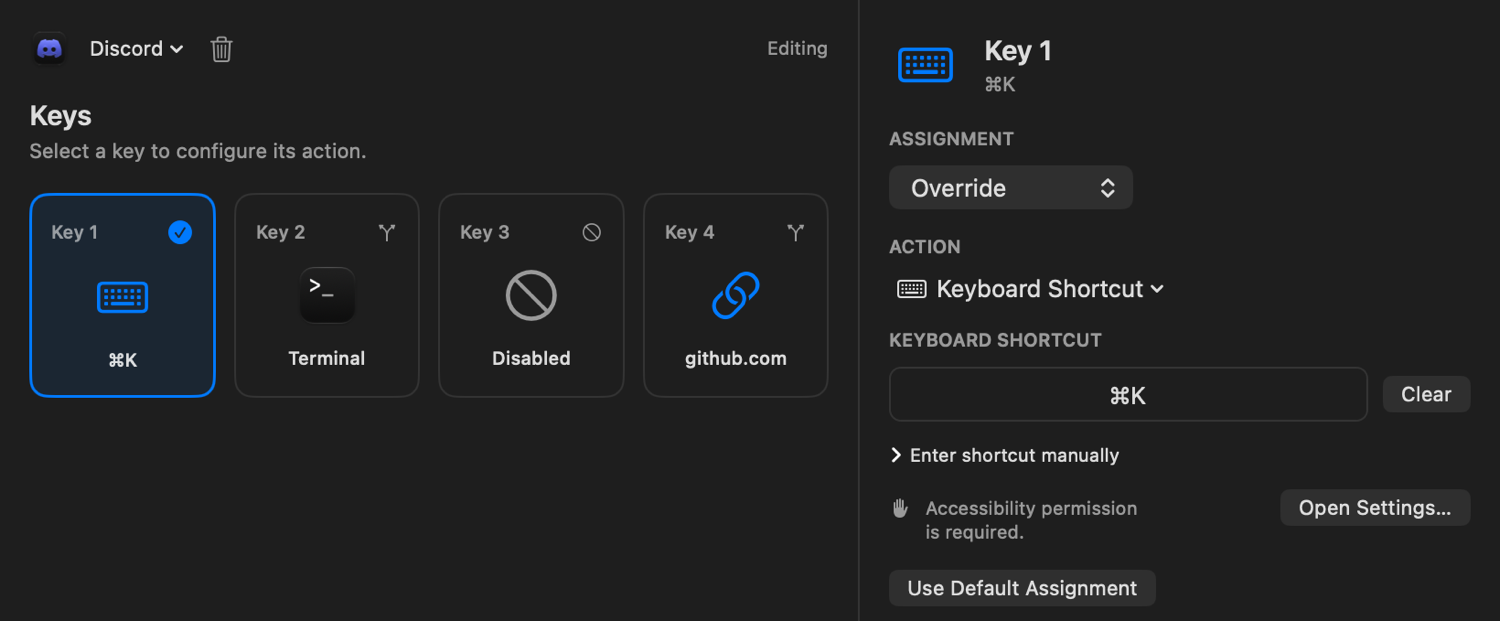
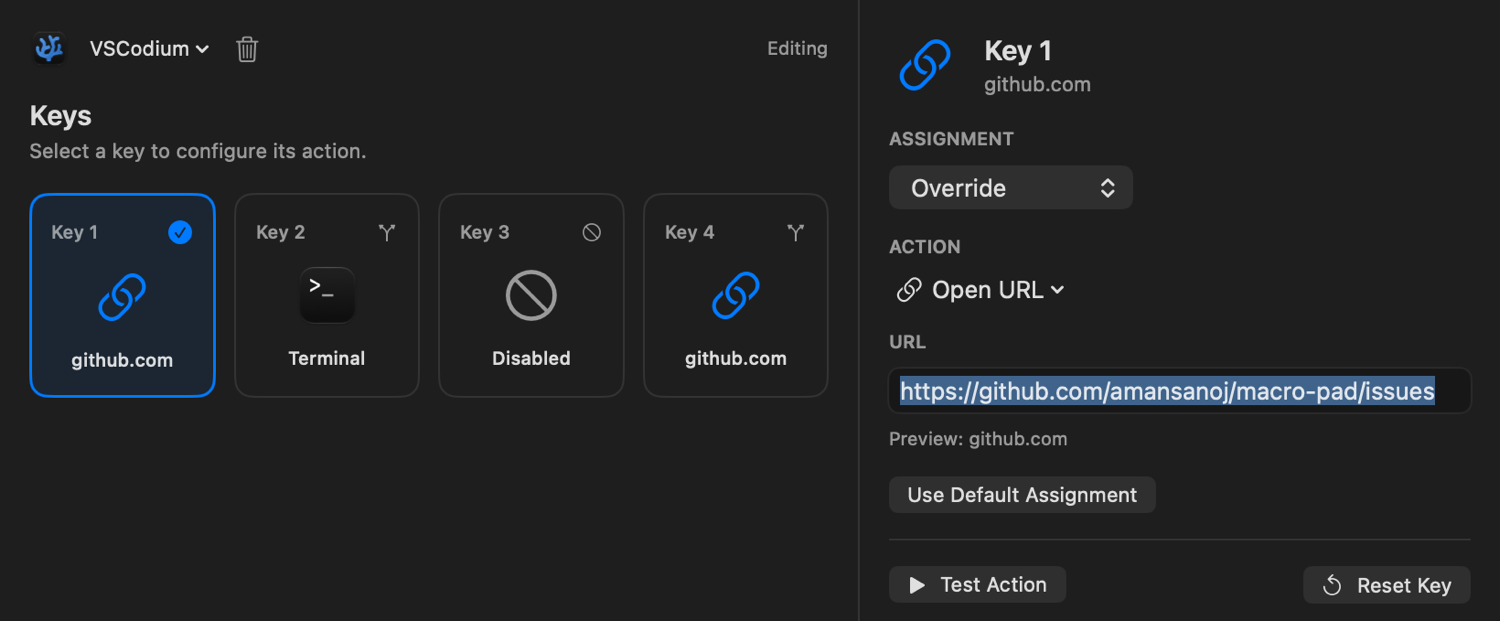
Refine screenshot demonstrations

diff --git a/macos/AppModel.swift b/macos/AppModel.swift
@@ -466,6 +466,7 @@ final class AppModel {
 @MainActor
 enum PreviewFixtures {
     static func model(profile: Bool = false, device: Bool = false) -> AppModel {
+        let vscodiumURL = vscodiumApplicationURL()
         let store = ConfigurationStore(
             fileURL: FileManager.default.temporaryDirectory
                 .appending(path: "macro-pad-preview-\(UUID().uuidString).json")
@@ -478,31 +479,27 @@ enum PreviewFixtures {
         )
         var configuration = AppConfiguration()
         configuration.appearance = .dark
-        configuration.keys = defaultAssignments()
+        configuration.keys = defaultAssignments(vscodiumURL: vscodiumURL)
 
         if profile {
-            var discord = ApplicationProfile(
-                bundleIdentifier: "com.hnc.Discord",
-                displayName: "Discord",
-                applicationBookmark: bookmark(for: "/Applications/Discord.app")
+            var vscodium = ApplicationProfile(
+                bundleIdentifier: "com.vscodium",
+                displayName: "VSCodium",
+                applicationBookmark: bookmark(for: vscodiumURL)
             )
-            var shortcut = KeyConfiguration(id: .one)
-            shortcut.actionKind = .keyboardShortcut
-            shortcut.shortcut = ShortcutDefinition(
-                keyCode: 40,
-                keyLabel: "K",
-                command: true
-            )
-            discord.assignments[0].mode = .override
-            discord.assignments[0].override = shortcut
-            discord.assignments[1].mode = .inheritDefault
-            discord.assignments[2].mode = .disabled
-            discord.assignments[3].mode = .inheritDefault
-            configuration.applicationProfiles = [discord]
-            model.editingProfileID = discord.bundleIdentifier
+            var issues = KeyConfiguration(id: .one)
+            issues.actionKind = .openURL
+            issues.urlString = "https://github.com/amansanoj/macro-pad/issues"
+            vscodium.assignments[0].mode = .override
+            vscodium.assignments[0].override = issues
+            vscodium.assignments[1].mode = .inheritDefault
+            vscodium.assignments[2].mode = .disabled
+            vscodium.assignments[3].mode = .inheritDefault
+            configuration.applicationProfiles = [vscodium]
+            model.editingProfileID = vscodium.bundleIdentifier
             model.selectedKeyID = .one
         } else {
-            model.selectedKeyID = .three
+            model.selectedKeyID = .one
         }
 
         if device {
@@ -515,7 +512,7 @@ enum PreviewFixtures {
         return model
     }
 
-    private static func defaultAssignments() -> [KeyConfiguration] {
+    private static func defaultAssignments(vscodiumURL: URL) -> [KeyConfiguration] {
         var safari = KeyConfiguration(id: .one)
         safari.actionKind = .launchApplication
         safari.applicationName = "Safari"
@@ -526,27 +523,34 @@ enum PreviewFixtures {
         terminal.applicationName = "Terminal"
         terminal.applicationBookmark = bookmark(for: "/System/Applications/Utilities/Terminal.app")
 
-        var screenshot = KeyConfiguration(id: .three)
-        screenshot.actionKind = .keyboardShortcut
-        screenshot.shortcut = ShortcutDefinition(
-            keyCode: 21,
-            keyLabel: "4",
-            command: true,
-            shift: true
-        )
+        var vscodium = KeyConfiguration(id: .three)
+        vscodium.actionKind = .launchApplication
+        vscodium.applicationName = "VSCodium"
+        vscodium.applicationBookmark = bookmark(for: vscodiumURL)
 
         var github = KeyConfiguration(id: .four)
         github.actionKind = .openURL
         github.urlString = "https://github.com/amansanoj/macro-pad"
-        return [safari, terminal, screenshot, github]
+        return [safari, terminal, vscodium, github]
     }
 
     private static func bookmark(for path: String) -> Data? {
-        try? URL(fileURLWithPath: path).bookmarkData(
+        bookmark(for: URL(fileURLWithPath: path))
+    }
+
+    private static func bookmark(for url: URL) -> Data? {
+        try? url.bookmarkData(
             options: .minimalBookmark,
             includingResourceValuesForKeys: nil,
             relativeTo: nil
         )
+    }
+
+    private static func vscodiumApplicationURL() -> URL {
+        guard let url = NSWorkspace.shared.urlForApplication(withBundleIdentifier: "com.vscodium") else {
+            preconditionFailure("VSCodium must be installed to render screenshot previews.")
+        }
+        return url
     }
 }
 #endif

diff --git a/README.md b/README.md
@@ -4,7 +4,7 @@ macro-pad turns four mechanical switches connected to an ESP32-WROOM-32 into a c
 
 **Verification status:** the macOS application builds, 41 Swift tests pass, and firmware compiles for PlatformIO's `esp32dev` target and Arduino CLI's `esp32:esp32:esp32` target. Manual testing on physical ESP32-WROOM-32 hardware has validated BLE connectivity, four-button input, reconnection, configured macro execution, and application integrations. The repository does not include an automated hardware acceptance suite.
 
-![macro-pad configuration in Dark Mode with Safari, Terminal, screenshot shortcut, and GitHub assignments](screenshots/configuration-dark.png)
+![macro-pad configuration in Dark Mode with Safari, Terminal, VSCodium, and GitHub assignments](screenshots/configuration-dark.png)
 
 ## Index
 
@@ -53,7 +53,7 @@ The companion is a native SwiftUI/AppKit menu bar utility with a compact status 
 | --- | --- |
 | ![macro-pad configuration in Dark Mode](screenshots/configuration-dark.png) | ![macro-pad menu bar popover in Dark Mode](screenshots/menu-bar-popover-dark.png) |
 | Application Profiles | Device Settings |
-| ![macro-pad Discord application-specific profile in Dark Mode](screenshots/application-profiles-dark.png) | ![macro-pad Device settings in Dark Mode](screenshots/device-settings-dark.png) |
+| ![macro-pad VSCodium application-specific profile in Dark Mode](screenshots/application-profiles-dark.png) | ![macro-pad Device settings in Dark Mode](screenshots/device-settings-dark.png) |
 
 ## Hardware and wiring
 
